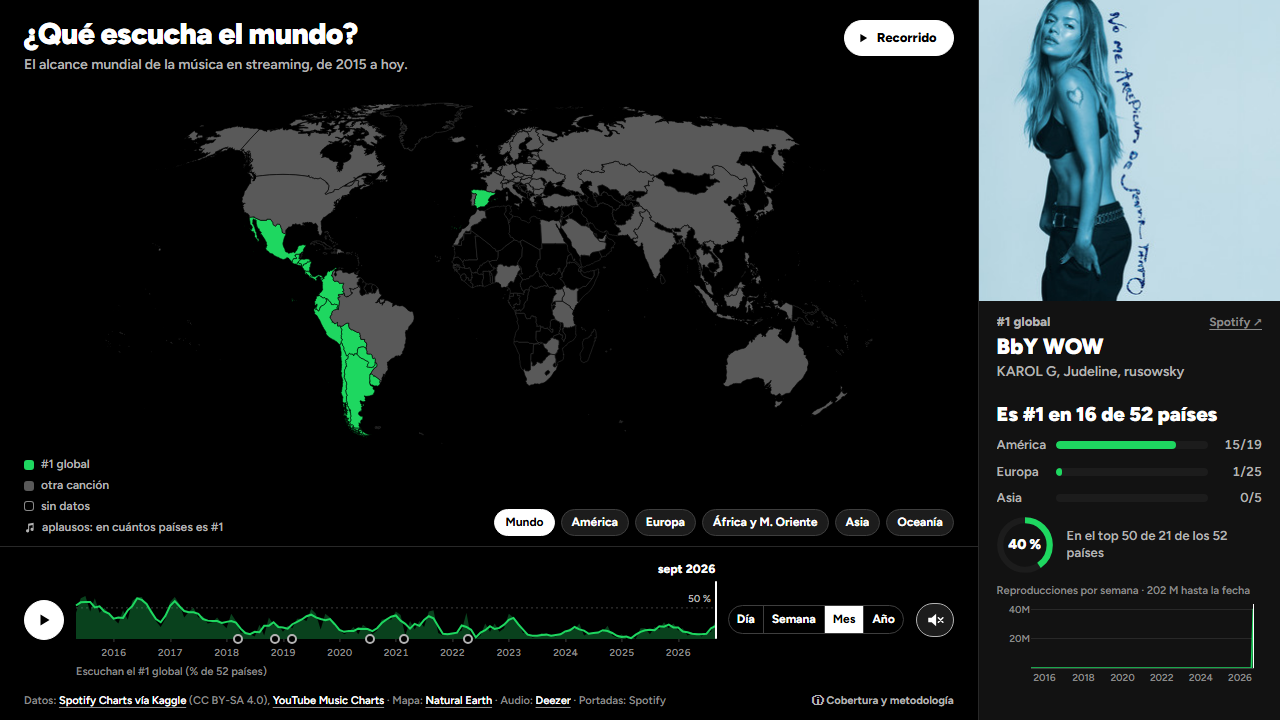
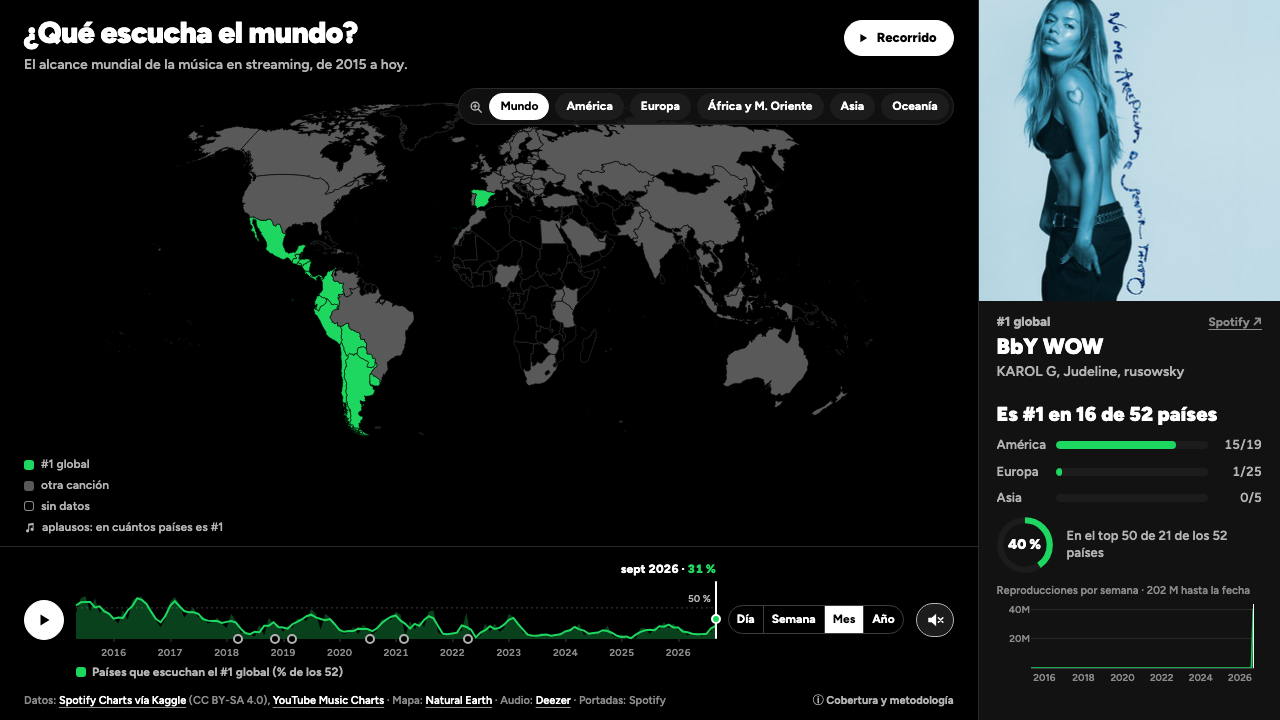
V4: adapta la ficha de cobertura del PR #2 a las regiones que solo acercan
- La ficha dice que todas las cifras cuentan los 52 países y que acercar solo cambia
  el encuadre.
- Sin el aviso de ámbito ni el de «titular pendiente», que durante la reproducción
  automática se encendía con cada carga del panel.
- La ficha solo se llena cuando está abierta: deja de recalcularse en cada fotograma.
- validar-layout.cjs acepta Chrome en macOS y ya no compara la posición de .acercar.
  Pasa en 1920×1080, 1366×768 y 1280×720. Capturas regeneradas.
- README de la V4: el aporte entra en qué cambió, rationale y descartes.

diff --git a/v4/js/contexto.js b/v4/js/contexto.js
@@ -1,51 +1,28 @@
-/* Contexto de solo lectura. La región se toma del control existente; el ámbito
-   del titular, del último dibujo completado por Panel (puede estar esperando).
-   No escribe en Estado ni altera los cálculos o los controles existentes. */
+/* Ficha «Cobertura y metodología» (PR #2, jtomaslarrain): contexto de solo lectura, a pedido, debajo de la vista.
+   No escribe en Estado ni altera los cálculos o los controles existentes.
+   Ajuste al integrarlo en la V4: tras la R3 los botones de región solo acercan el mapa, así que todas las cifras
+   cuentan siempre los 52 países de la muestra. Ya no hay ámbitos distintos que avisar (ni «titular pendiente»,
+   que durante la reproducción automática se encendía con cada carga del panel). */
 const Contexto = (() => {
   const $ = id => document.getElementById(id);
-  const nombre = ambito => ambito === 'global' ? 'muestra mundial' : nombreAmbito(ambito);
-  const etiqueta = ambito => `${nombre(ambito)} (${muestraDe(ambito).length} países)`;
 
   function actualizar() {
-    if (!$('contexto')) return;
-    const regionBoton = document.querySelector('.acercar button.activo')?.dataset.region ?? 'mundo';
-    const region = regionBoton === 'mundo' ? 'global' : regionBoton;
-    const efectivo = ambitoMedible(region);
+    if (!$('contexto-ficha') || $('contexto-ficha').hidden) return;   // solo se llena cuando está abierta
+    const region = document.querySelector('.acercar button.activo')?.dataset.region ?? 'mundo';
     const total = muestraDe('global').length;
-    $('contexto-mapa').textContent = `Mapa: ${region === 'global' ? 'Mundo' : nombreAmbito(region)}`;
-    const titular = $('r-titular').dataset;
-    const sinDatos = Estado.mensaje || $('panel').classList.contains('modo-mensaje');
-    const pendiente = !sinDatos && (titular.contextoAmbito !== efectivo
-      || titular.contextoGrano !== Estado.grano || titular.contextoPeriodo !== String(Estado.periodo)
-      || titular.contextoCancion !== String(Estado.cancion));
-    $('contexto-indicadores').textContent = sinDatos
-      ? 'Titular y diversidad: no visibles en el panel sin datos.'
-      : titular.contextoAmbito === efectivo
-        ? `Titular y diversidad: ${etiqueta(efectivo)}`
-        : `Titular: ${titular.contextoAmbito ? etiqueta(titular.contextoAmbito) : 'cargando'} · Diversidad: ${etiqueta(efectivo)}`;
-    $('contexto-alcance').textContent = sinDatos
-      ? `Alcance top 50: no visible; su base es la muestra mundial (${total} países).`
-      : `Alcance top 50: ${efectivo === 'global' ? 'misma muestra mundial' : `muestra mundial (${total} países)`}, siempre semanal.`;
-    const notas = [];
-    if (region !== efectivo) {
-      const n = muestraDe(region).length;
-      notas.push(`${nombreAmbito(region)} tiene ${n} ${n === 1 ? 'país' : 'países'} en la muestra; el mínimo regional es ${MIN_MUESTRA}. Titular y diversidad usan la muestra mundial cuando se actualizan.`);
-    }
-    if (pendiente) notas.push('El titular visible está pendiente de actualizar a la selección actual.');
-    $('contexto-nota').textContent = notas.join(' ');
-    $('contexto-nota').hidden = !notas.length;
-    const aviso = $('contexto-aviso');
-    aviso.textContent = region !== efectivo ? '· ámbito mundial' : pendiente ? '· titular pendiente' : '';
-    aviso.title = notas.join(' ');
-    aviso.hidden = !aviso.textContent;
+    $('contexto-mapa').textContent = region === 'mundo'
+      ? 'Mapa: el mundo completo.'
+      : `Mapa: acercado a ${nombreAmbito(region)}. Acercar solo cambia el encuadre, no lo que se cuenta.`;
+    $('contexto-indicadores').textContent = `Titular, barras por continente, eje de tiempo, diversidad y aplausos: los ${total} países de la muestra.`;
+    $('contexto-alcance').textContent = `Alcance top 50: los mismos ${total} países, semana a semana.`;
     $('contexto-fin').textContent = textoFecha(new Date(window.FECHA_MAX + 'T00:00:00Z'));
     $('contexto-muestra').textContent = `${total} países: ${Object.entries(CONTINENTES).map(([k, n]) => `${n}: ${muestraDe(k).length}`).join('; ')}.`;
     $('contexto-concentracion').textContent = `${muestraDe('europa').length + muestraDe('america').length} de esos ${total} países están en Europa y América.`;
   }
 
   function abrir() {
-    actualizar();
     $('contexto-ficha').hidden = false;
+    actualizar();
     $('contexto-abrir').setAttribute('aria-expanded', 'true');
     $('contexto-titulo').focus({ preventScroll: true });
     $('contexto-ficha').scrollIntoView({ block: 'start', behavior: 'instant' });
@@ -64,14 +41,5 @@ const Contexto = (() => {
     if (e.key === 'Escape') { e.preventDefault(); e.stopPropagation(); cerrar(); }
   });
 
-  /** Metadatos de la vista ya dibujada; no son un segundo estado de selección. */
-  function titularDibujado(ambito) {
-    Object.assign($('r-titular').dataset, {
-      contextoAmbito: ambito, contextoGrano: Estado.grano,
-      contextoPeriodo: String(Estado.periodo), contextoCancion: String(Estado.cancion),
-    });
-    actualizar();
-  }
-
-  return { actualizar, titularDibujado };
+  return { actualizar };
 })();

diff --git a/v4/index.html b/v4/index.html
@@ -124,8 +124,7 @@
       Mapa: <a href="https://www.naturalearthdata.com/">Natural Earth</a> · Audio: <a href="https://developers.deezer.com/api">Deezer</a> · Portadas: Spotify
       </p>
       <div class="contexto-acceso">
-        <button type="button" id="contexto-abrir" aria-expanded="false" aria-controls="contexto-ficha" aria-describedby="contexto-aviso">ⓘ Cobertura y metodología</button>
-        <span id="contexto-aviso" hidden></span>
+        <button type="button" id="contexto-abrir" aria-expanded="false" aria-controls="contexto-ficha">ⓘ Cobertura y metodología</button>
       </div>
     </div>
   </div>
@@ -196,9 +195,9 @@
       <p id="contexto-nota" hidden></p>
     </div>
           <p><strong>Muestra fija de Spotify.</strong> La serie temporal de coincidencia, el titular, las barras continentales y diversidad usan una muestra fija con continuidad de datos. <span id="contexto-muestra"></span> Permite comparar períodos con los mismos países; no es una muestra estadísticamente representativa del mundo. <span id="contexto-concentracion"></span></p>
-          <p><strong>Mapa y ámbito.</strong> El mapa también muestra países fuera de la muestra, con rankings de Spotify, YouTube Music o QQ Music. Acercar una región no limita todos los indicadores a esa región: el eje temporal y el alcance top 50 siguen siendo mundiales dentro de la muestra. Las barras muestran continentes con al menos tres países; el titular y diversidad vuelven a la muestra mundial si la región tiene menos de tres.</p>
-          <p><strong>Qué se compara.</strong> En los conteos de coincidencia, cada país pesa lo mismo, sin ponderar población ni reproducciones. Compartir el #1 no significa tener gustos idénticos ni escuchar toda la misma música. Si la canción procede de un país fuera del ámbito del titular, ese país puede nombrarse aparte.</p>
-          <p><strong>Canciones y alcance.</strong> Diversidad cuenta índices distintos del catálogo: ediciones con distinto identificador pueden contar por separado. El alcance top 50 agrupa por título y primer artista normalizados y cuenta países de la muestra por semana; no usa exactamente la misma regla de identidad ni la misma resolución temporal que el #1. Su porcentaje siempre se refiere a toda la muestra, incluso al enfocar una región.</p>
+          <p><strong>Mapa y ámbito.</strong> El mapa también muestra países fuera de la muestra, con rankings de Spotify, YouTube Music o QQ Music. Los botones de región solo acercan el mapa: todas las cifras siguen contando los países de la muestra. Las barras muestran los continentes con al menos tres países en ella.</p>
+          <p><strong>Qué se compara.</strong> En los conteos de coincidencia, cada país pesa lo mismo, sin ponderar población ni reproducciones. Compartir el #1 no significa tener gustos idénticos ni escuchar toda la misma música. Si el país que se mira está fuera de la muestra (Rusia, China…), se nombra aparte en el titular.</p>
+          <p><strong>Canciones y alcance.</strong> Diversidad cuenta índices distintos del catálogo: ediciones con distinto identificador pueden contar por separado. El alcance top 50 agrupa por título y primer artista normalizados y cuenta países de la muestra por semana; no usa exactamente la misma regla de identidad ni la misma resolución temporal que el #1. Su porcentaje siempre se refiere a toda la muestra.</p>
           <p><strong>Fuentes y unidades.</strong> La curva de reproducciones suma registros disponibles en los charts; puede incluir reproducciones de Spotify o vistas de YouTube según la serie de la canción, y no está restringida a los 52 países. QQ Music aporta posiciones, no reproducciones. Esas fuentes no miden consumos equivalentes; la muestra de coincidencia es de Spotify.</p>
           <p><strong>Fecha de los datos.</strong> Último día disponible: <span id="contexto-fin"></span>. El último mes o año puede estar incompleto; no equivale necesariamente a la fecha actual.</p>
   </section>

diff --git a/v4/css/contexto.css b/v4/css/contexto.css
@@ -4,7 +4,6 @@
 .contexto-acceso { flex: none; display: flex; align-items: baseline; gap: 8px; margin: 4px 24px 12px 0; font-size: 11px; line-height: 1.4; }
 .contexto-acceso button { padding: 0; border: 0; border-radius: 0; background: none; font-size: inherit; line-height: inherit; color: var(--tinta-2); }
 .contexto-acceso button:hover { color: var(--tinta); text-decoration: underline; }
-#contexto-aviso { color: var(--tinta); }
 
 /* La ficha ocupa la segunda fila del documento, debajo de la vista de 100vh.
    Abrirla habilita scroll de página; no cambia el alto o ancho de la aplicación.
@@ -21,6 +20,5 @@ html:has(.contexto-ficha:not([hidden]))::-webkit-scrollbar { width: 0; height: 0
 .contexto-ambitos { border-block: 1px solid var(--eje); margin: 16px 0; color: var(--tinta); }
 @media (max-width: 760px) {
   .contexto-acceso { margin: 2px 16px 10px 0; gap: 5px; }
-  #contexto-aviso { max-width: 90px; overflow: hidden; white-space: nowrap; text-overflow: ellipsis; }
   .contexto-ficha { padding: 16px; }
 }

diff --git a/v4/js/panel.js b/v4/js/panel.js
@@ -76,7 +76,6 @@ const Panel = (() => {
     $('p-contexto').textContent = origen === 'global' ? '#1 global' : `Escuchando en ${nombrePais(origen)}`;
     $('p-insignia').hidden = origen === 'global' || idx !== numero1('global')?.idx;
     dibujarTitular(idx, origen, ambitoMedible(Estado.ambito));
-    Contexto.titularDibujado(ambitoMedible(Estado.ambito));
     dibujarContinentes(idx);
     const semana = semanaDe(finDelPeriodo());
     dibujarAnillo(alcanceEn(alcance, semana), muestraDe('global').length);
@@ -199,7 +198,6 @@ const Panel = (() => {
     panel.scrollTop = 0;
     $('p-mensaje-titulo').textContent = titulo;
     $('p-mensaje-texto').textContent = texto;
-    Contexto.actualizar();
   }
 
   /** El ecualizador se mueve solo mientras suena la preview. */

diff --git a/v4/js/main.js b/v4/js/main.js
@@ -63,7 +63,6 @@
     if (globo?.cc) llenarGlobo(globo.cc);
     Mapa.dibujar();
     Diversidad.actualizar('global');
-    Contexto.actualizar();
   }
 
   function cambiarGrano(grano) {

diff --git a/v4/README.md b/v4/README.md
@@ -36,6 +36,7 @@ Son los mismos estados que en la [V3](../v3/README.md), para compararlos lado a 
 2. **La línea de tiempo dice qué muestra:** la cifra junto a la fecha («jun 2015 · 65 %»), un punto verde sobre el valor y un título con la muestra verde de la leyenda.
 3. **Panel a 1366×768:** el título va en una línea y ya no tapa a los artistas.
 4. **Textos coherentes con el sonido:** el recorrido decía «top 50» (los aplausos cuentan dónde es #1) y el botón decía «de 2013 en un minuto».
+5. **Ficha «Cobertura y metodología»** (PR #2, José Tomás Larraín): se abre a pedido debajo de la vista y explica qué países, fuentes y fechas usa cada cifra.
 
 ## Por qué cambió — el rationale (máx. 12 líneas)
 
@@ -49,6 +50,7 @@ Son los mismos estados que en la [V3](../v3/README.md), para compararlos lado a 
   - El punto sobre el valor además indica que el eje se puede arrastrar.
 - **Auditoría, alineado y ordenado (§11).** Un panel que se tapa a sí mismo en una pantalla común rompe la jerarquía.
 - **Coherencia del sonido.** Si la leyenda y el recorrido explican los aplausos de forma distinta, el sonido no se entiende (heurística de Zuk-Carpendale).
+- **Contexto a pedido (PR #2).** Responde a la heurística «falta contexto» sin sumar texto a la vista: la muestra fija, sus límites y las fuentes quedan a un click (*details on demand*).
 
 ## Qué se descartó (máx. 5 líneas)
 
@@ -56,6 +58,7 @@ Son los mismos estados que en la [V3](../v3/README.md), para compararlos lado a 
 - **Reducir la portada:** escuchar la canción y ver el disco es parte de la identidad del concepto desde la V1. Se arregló el desborde sin cambiar su tamaño.
 - **Quitar la media móvil del eje** (probado): con el valor exacto de cada mes el borde quedaba dentado, y la caída de 51 % a 12 % se leía peor.
 - **Agregar más datos o funciones:** la versión final ajusta, no suma piezas.
+- **El aviso «titular pendiente / ámbito mundial» del PR #2:** con regiones que solo acercan no hay ámbitos distintos que avisar, y durante la reproducción se encendía con cada carga del panel.
 
 ## Balance del recorrido
 
@@ -71,7 +74,15 @@ Son los mismos estados que en la [V3](../v3/README.md), para compararlos lado a 
 - **La muestra fija de 52 países**, aunque deja fuera a Rusia, India o China de la cifra: sin ella, la cifra mediría la llegada de Spotify y no el gusto.
 - **La portada grande:** es la identidad del proyecto.
 
-## Aporte individual: contexto y cobertura de los indicadores
+## Aporte individual: contexto y cobertura de los indicadores (PR #2, José Tomás Larraín)
+
+> **Al integrarlo (merge `43e30b9`)**, el PR partía de la V3, así que se adaptó a la V4:
+> - las regiones ya no cambian el ámbito, de modo que la ficha dice que todas las cifras cuentan los 52 países;
+> - se quitaron el aviso junto al botón y el seguimiento del «titular pendiente»;
+> - el script de validación acepta Chrome en macOS (`NAVEGADOR`) y ya no compara la posición de `.acercar`, que se movió a propósito tras la R3;
+> - las capturas de `evidencia/contexto-layout/` se regeneraron con la V4 integrada.
+>
+> El texto original del aporte sigue abajo.
 
 - **Problema:** según la observación de R3 comunicada por el integrante, no era suficientemente claro qué países y fuentes usan los indicadores ni cuándo difieren de la región enfocada. No se atribuye una cita literal ni una prueba con usuarios.
 - **Decisión:** el control «ⓘ Cobertura y metodología» comparte la fila de créditos sin añadir altura a la visualización. Abre una sección debajo de la vista principal, sin modal ni superposición, y permite volver con botón o Escape. Los ámbitos detallados del mapa, titular, diversidad y alcance se muestran a pedido; solo queda un aviso breve cuando hay sustitución regional o un titular pendiente. Se explican la muestra fija y las diferencias de fuentes e identidad de canción.
